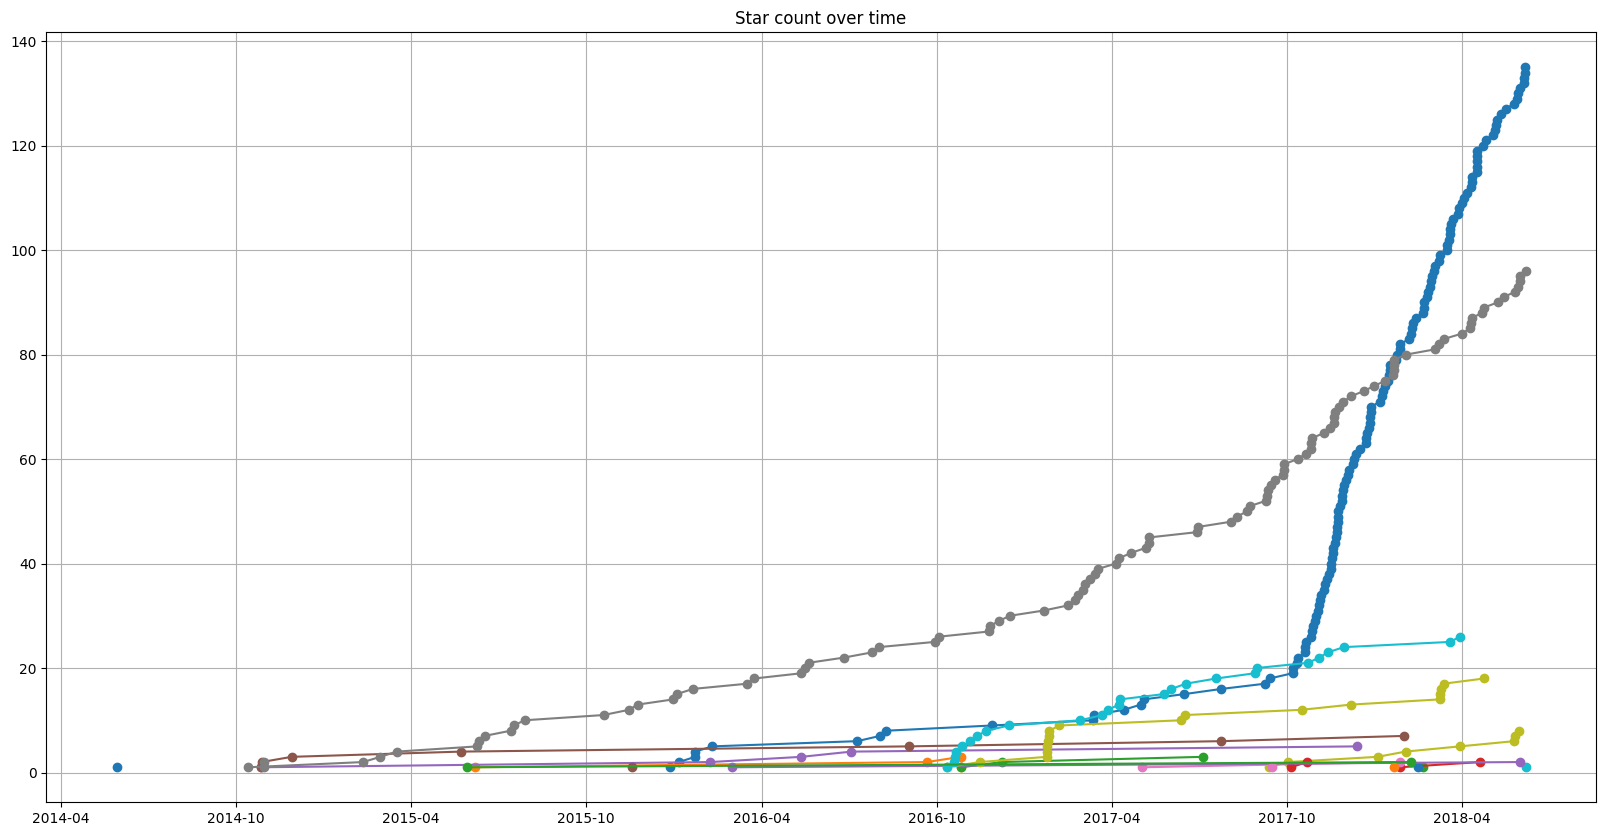
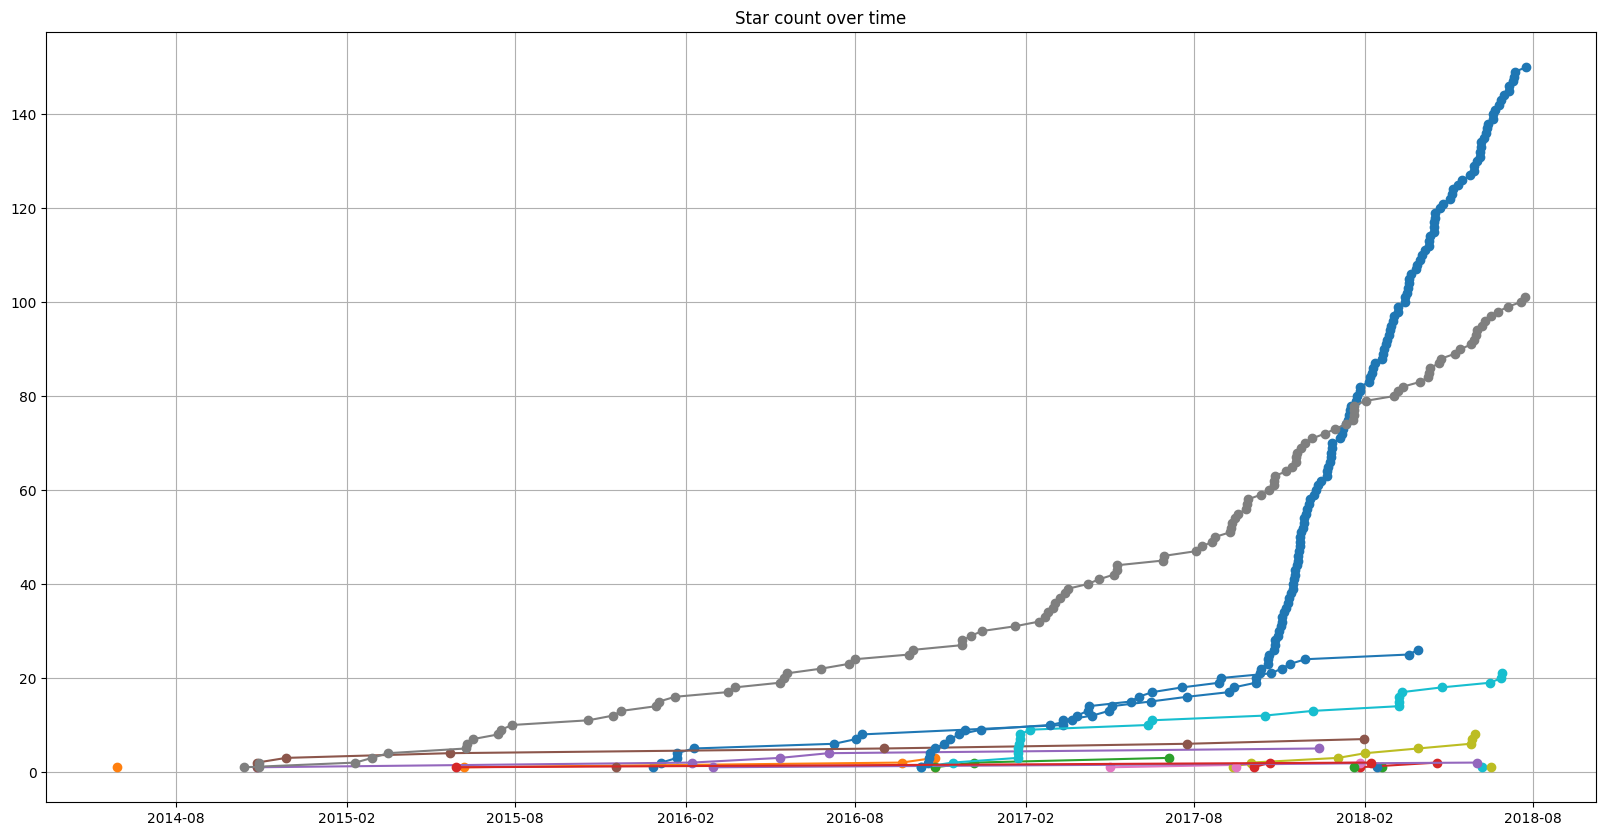
update

diff --git a/README.md b/README.md
@@ -3,7 +3,7 @@
 
 ![star plot](https://raw.github.com/FabriceSalvaire/github-map/master/star-plots/all.png)
 
-Overall stars: 321 :star:
+Overall stars: 345 :star:
 
 ## Python Packages
 
@@ -25,17 +25,17 @@ Overall stars: 321 :star:
 
    Updated on 2017-11-18
 
+* [python-interval-arithmetic](https://github.com/FabriceSalvaire/python-interval-arithmetic) 1 :star:</br>
+
+   A Python Interval Arithmetic Module 
+
+   Updated on 2018-06-16
+
 * [PyMetrology](https://github.com/FabriceSalvaire/PyMetrology)
 
    An unit framework for Python 3
 
    Updated on 2017-11-10
-
-* [python-interval-arithmetic](https://github.com/FabriceSalvaire/python-interval-arithmetic)
-
-   A Python Interval Arithmetic Module 
-
-   Updated on 2017-11-11
 
 * [sidita](https://github.com/FabriceSalvaire/sidita)
 
@@ -45,11 +45,11 @@ Overall stars: 321 :star:
 
 ## Python Tools for Developers
 
-* [CodeReview](https://github.com/FabriceSalvaire/CodeReview) 135 :star:</br>
+* [CodeReview](https://github.com/FabriceSalvaire/CodeReview) 150 :star:</br>
 
    CodeReview is a Git GUI tool to perform code review (Diff Viewer) written in Python3 and Qt5.
 
-   Updated on 2018-06-06
+   Updated on 2018-07-24
 
 * [github-map](https://github.com/FabriceSalvaire/github-map)
 
@@ -181,11 +181,11 @@ Overall stars: 321 :star:
 
 ## Python for Electronic
 
-* [PySpice](https://github.com/FabriceSalvaire/PySpice) 96 :star:</br>
+* [PySpice](https://github.com/FabriceSalvaire/PySpice) 101 :star:</br>
 
    Simulate electronic circuit using Python and the Ngspice / Xyce simulators
 
-   Updated on 2018-06-06
+   Updated on 2018-07-23
 
 * [PyCpuSimulator](https://github.com/FabriceSalvaire/PyCpuSimulator) 2 :star:</br>
 
@@ -321,11 +321,11 @@ Overall stars: 321 :star:
 
 ## Qt
 
-* [qt5-vector-graphic-shaders](https://github.com/FabriceSalvaire/qt5-vector-graphic-shaders) 18 :star:</br>
+* [qt5-vector-graphic-shaders](https://github.com/FabriceSalvaire/qt5-vector-graphic-shaders) 21 :star:</br>
 
    A Qt5 application to experiment vector graphic shaders
 
-   Updated on 2018-04-24
+   Updated on 2018-06-28
 
 ## MuPDF
 
